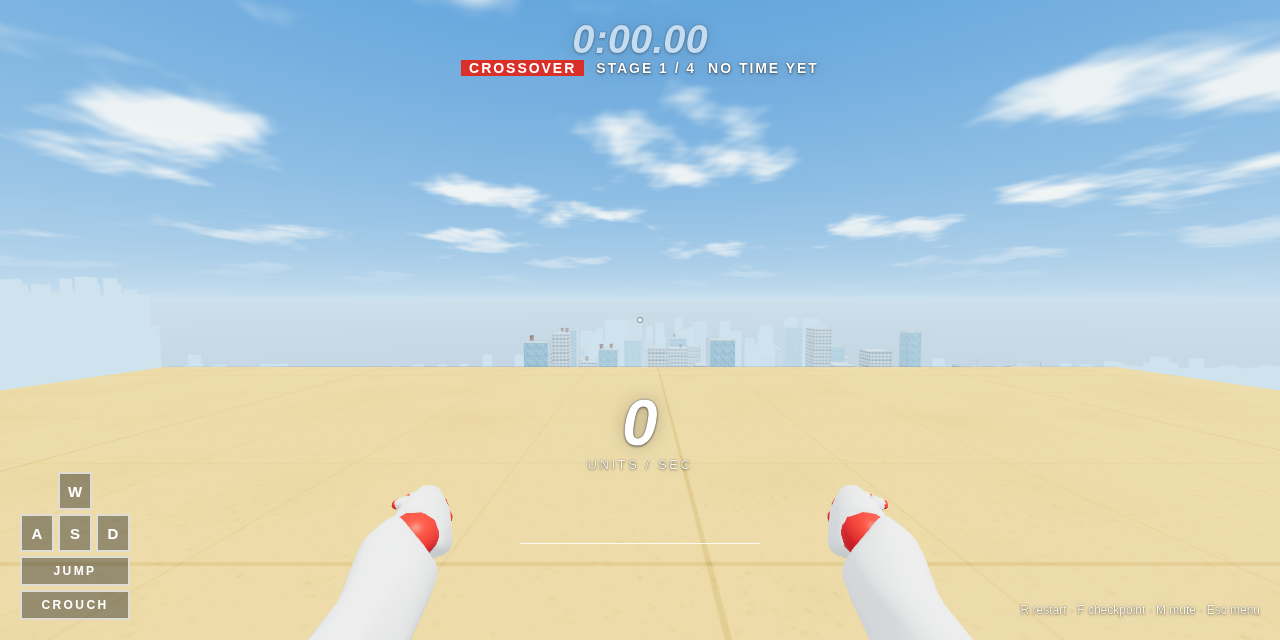
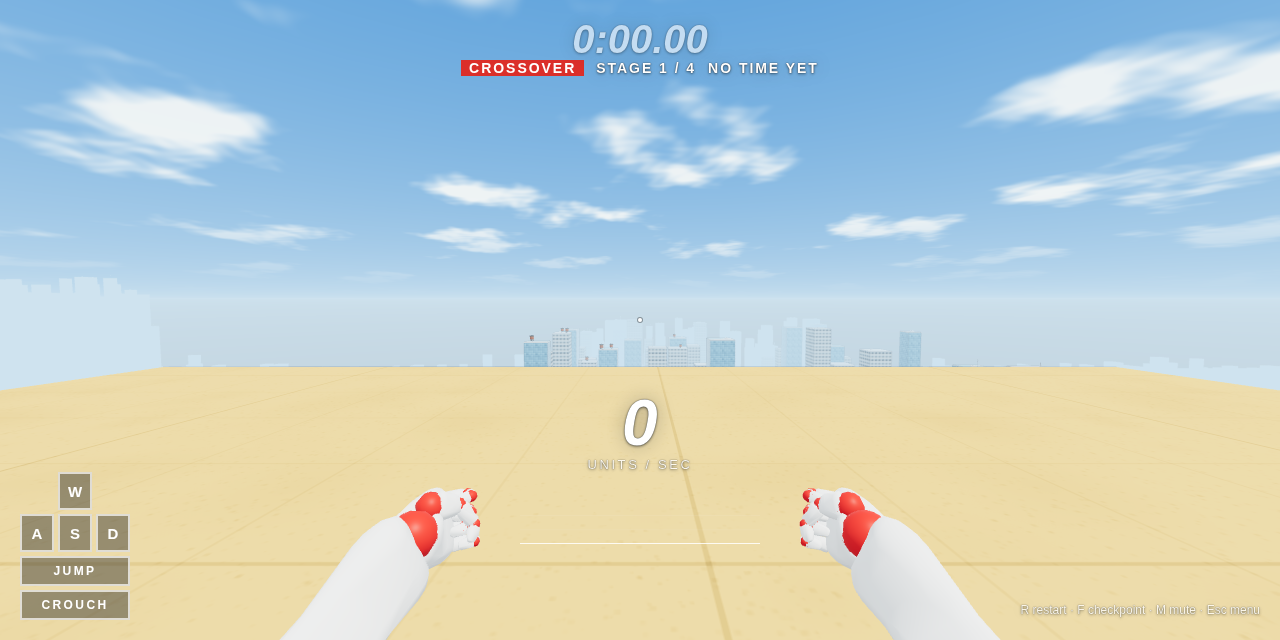
Turn the first-person fists inward
Fists now face each other with the thumbs on top and wrapped over the
fingers, instead of turning outward.

Claude-Session: https://claude.ai/code/session_01SMFRvYaVk4Ny59nhfiSM2p

diff --git a/dist/index.html b/dist/index.html
@@ -8132,7 +8132,7 @@ window.STRAFE_ASSETS = {"city":"Z2xURgIAAABU+ggAYFIAAEpTT057ImFzc2V0Ijp7ImdlbmVy
       const knuckles = new THREE.Group(); knuckles.position.y = -3.5; wrist.add(knuckles);
       knuckles.add(boxm(2.9, 2.6, 1.15, glove, 0, -1.3, 0));
       wrist.add(boxm(0.95, 2.4, 0.95, glove, -side * 1.7, -1.6, -0.6));
-      return { shoulder, elbow, wrist, knuckles, side, cur: { x: 0.6, z: 0, y: 0, e: 1.4, w: 0, k: 0.4, p: 2 } };
+      return { shoulder, elbow, wrist, knuckles, side, cur: { x: 0.6, z: 0, y: 0, e: 1.4, w: 0, k: 0.4, p: -1.2 } };
     }
     function makeLeg(side) {
       const hip = new THREE.Group();
@@ -8212,7 +8212,7 @@ window.STRAFE_ASSETS = {"city":"Z2xURgIAAABU+ggAYFIAAEpTT057ImFzc2V0Ijp7ImdlbmVy
         if (t1 && t3) {
           const d = t3.position.clone().add(bone[side + 'HandThumb2'].position).normalize();
           const tax = d.clone().cross(new THREE.Vector3(0, -1, 0)).normalize();
-          fingers.push([t1, a, new THREE.Vector3(1, 0, 0), 0.45], [bone[side + 'HandThumb2'], a, tax, 0.35], [t3, a, tax, 0.45]);
+          fingers.push([t1, a, new THREE.Vector3(1, 0, 0), 0.8], [bone[side + 'HandThumb2'], a, tax, 0.6], [t3, a, tax, 0.7]);
         }
       }
       bone.LeftHand.scale.setScalar(HAND); bone.RightHand.scale.setScalar(HAND);
@@ -8287,10 +8287,10 @@ window.STRAFE_ASSETS = {"city":"Z2xURgIAAABU+ggAYFIAAEpTT057ImFzc2V0Ijp7ImdlbmVy
     // targets in radians: x swings the arm forward, z lifts it out sideways,
     // e bends the elbow, w tips the wrist, k curls the fingers
     function armTarget(a, mode, t, hs) {
-      // p turns the palm in around the forearm: 2 shows the back of a fist,
-      // 1 keeps an open hand flat to whatever it is reaching for
+      // p turns the palm around the forearm: -1.2 makes fists with the palms
+      // facing each other and the thumbs on top, 1 keeps an open hand flat to whatever it is reaching for
       const g = armPose(a, mode, t, hs);
-      g.p = OPEN[mode] ? 1 : 2;
+      g.p = OPEN[mode] ? 1 : -1.2;
       return g;
     }
     const OPEN = { climb: 1, wallhand: 1, vault: 1, surf: 1 };

diff --git a/src/game.js b/src/game.js
@@ -1360,7 +1360,7 @@
       const knuckles = new THREE.Group(); knuckles.position.y = -3.5; wrist.add(knuckles);
       knuckles.add(boxm(2.9, 2.6, 1.15, glove, 0, -1.3, 0));
       wrist.add(boxm(0.95, 2.4, 0.95, glove, -side * 1.7, -1.6, -0.6));
-      return { shoulder, elbow, wrist, knuckles, side, cur: { x: 0.6, z: 0, y: 0, e: 1.4, w: 0, k: 0.4, p: 2 } };
+      return { shoulder, elbow, wrist, knuckles, side, cur: { x: 0.6, z: 0, y: 0, e: 1.4, w: 0, k: 0.4, p: -1.2 } };
     }
     function makeLeg(side) {
       const hip = new THREE.Group();
@@ -1440,7 +1440,7 @@
         if (t1 && t3) {
           const d = t3.position.clone().add(bone[side + 'HandThumb2'].position).normalize();
           const tax = d.clone().cross(new THREE.Vector3(0, -1, 0)).normalize();
-          fingers.push([t1, a, new THREE.Vector3(1, 0, 0), 0.45], [bone[side + 'HandThumb2'], a, tax, 0.35], [t3, a, tax, 0.45]);
+          fingers.push([t1, a, new THREE.Vector3(1, 0, 0), 0.8], [bone[side + 'HandThumb2'], a, tax, 0.6], [t3, a, tax, 0.7]);
         }
       }
       bone.LeftHand.scale.setScalar(HAND); bone.RightHand.scale.setScalar(HAND);
@@ -1515,10 +1515,10 @@
     // targets in radians: x swings the arm forward, z lifts it out sideways,
     // e bends the elbow, w tips the wrist, k curls the fingers
     function armTarget(a, mode, t, hs) {
-      // p turns the palm in around the forearm: 2 shows the back of a fist,
-      // 1 keeps an open hand flat to whatever it is reaching for
+      // p turns the palm around the forearm: -1.2 makes fists with the palms
+      // facing each other and the thumbs on top, 1 keeps an open hand flat to whatever it is reaching for
       const g = armPose(a, mode, t, hs);
-      g.p = OPEN[mode] ? 1 : 2;
+      g.p = OPEN[mode] ? 1 : -1.2;
       return g;
     }
     const OPEN = { climb: 1, wallhand: 1, vault: 1, surf: 1 };
